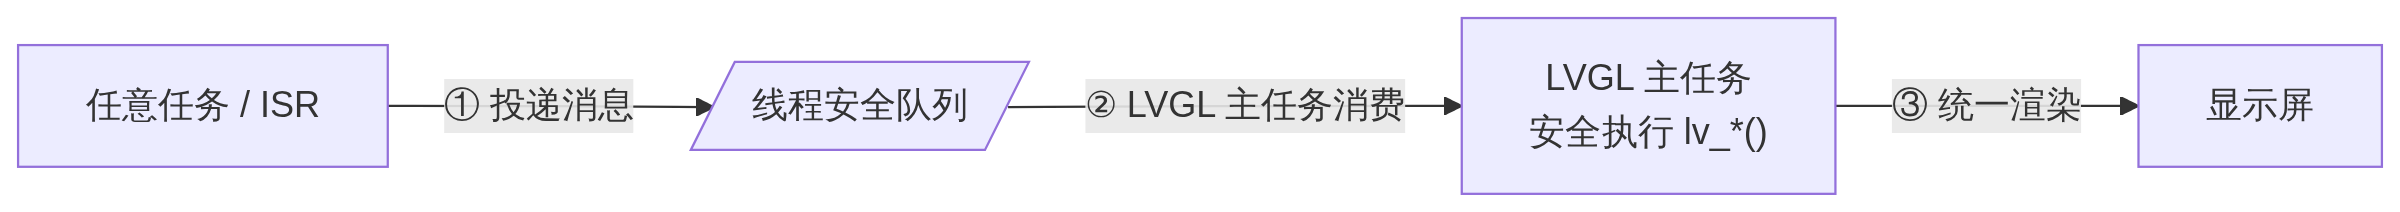
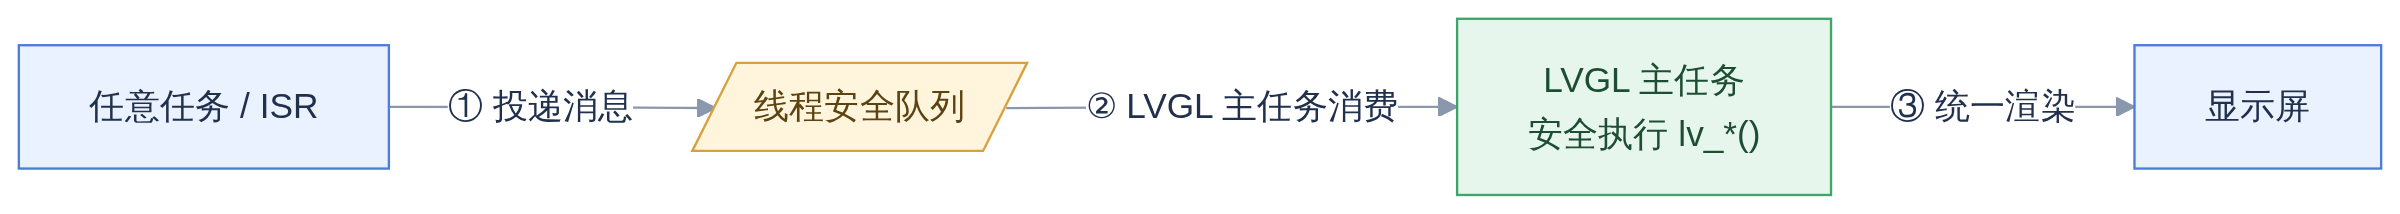
docs: 全文档图统一为本地渲染 PNG 并套用新主题
- §5.1 ASCII 分层图重绘为 mermaid 环形图（design_mvvm_layers）
- 全部 8 张图套用统一主题：浅蓝节点、状态/队列琥珀色、事件总线
  紫色、LVGL 上下文绿色、危险红色，平滑曲线，2x 分辨率
- 所有图源（.mmd）保留在 docs/assets/，含主题与 classDef 配置

diff --git a/docs/design/design.md b/docs/design/design.md
@@ -253,26 +253,9 @@ LVGL 投递池满、任务订阅队列满时事件被丢弃并累计到该计数
 
 ### 5.1 分层架构与职责
 
-```
-   后台任务 / ISR（任意上下文，不认识 UI）
-  传感器任务    网络任务    按键处理 …
-       │ ① set_xxx() 写状态            ▲ ⑤ 命令事件投递到任务队列
-       ▼                               │
-╔══════════════════════════════════════════════════════════╗
-║ 解耦层                                                     ║
-║   Model（应用手写）：状态中心，互斥保护，唯一权威数据源        ║
-║   mvl_evt（库提供） ：事件总线，按订阅者声明的上下文路由        ║
-╚══════╤═══════════════════════════════════▲═══════════════╝
-       │ ② 变更即发布状态事件                 │ ④ 用户操作 → 发布命令事件
-       │ ③ 经 mvl_msg 投递到 LVGL 上下文      │
-       ▼                               │
-╔══════════════════════════════════════════════════════════╗
-║ LVGL 主任务（唯一允许调用 lv_*() 的上下文）                  ║
-║   ViewModel（订阅回调）                                     ║
-║     → View 接口层（全工程唯一认识 ui_ 控件的地方）            ║
-║       → View（GUI Guider 生成的 widgets + 事件绑定）         ║
-╚══════════════════════════════════════════════════════════╝
-```
+![MVVM-Lite 分层架构：后台任务/ISR 经解耦层（Model 状态中心 + mvl_evt 事件总线）与 LVGL 主任务内的 ViewModel、View 接口层、View 交互，①~⑤ 标注双向数据流](../assets/design_mvvm_layers.png)
+
+<!-- 图源：docs/assets/design_mvvm_layers.mmd（mermaid），修改后重新渲染 PNG -->
 
 | 层 | 归属 | 职责 | 禁止 |
 |----|------|------|------|
